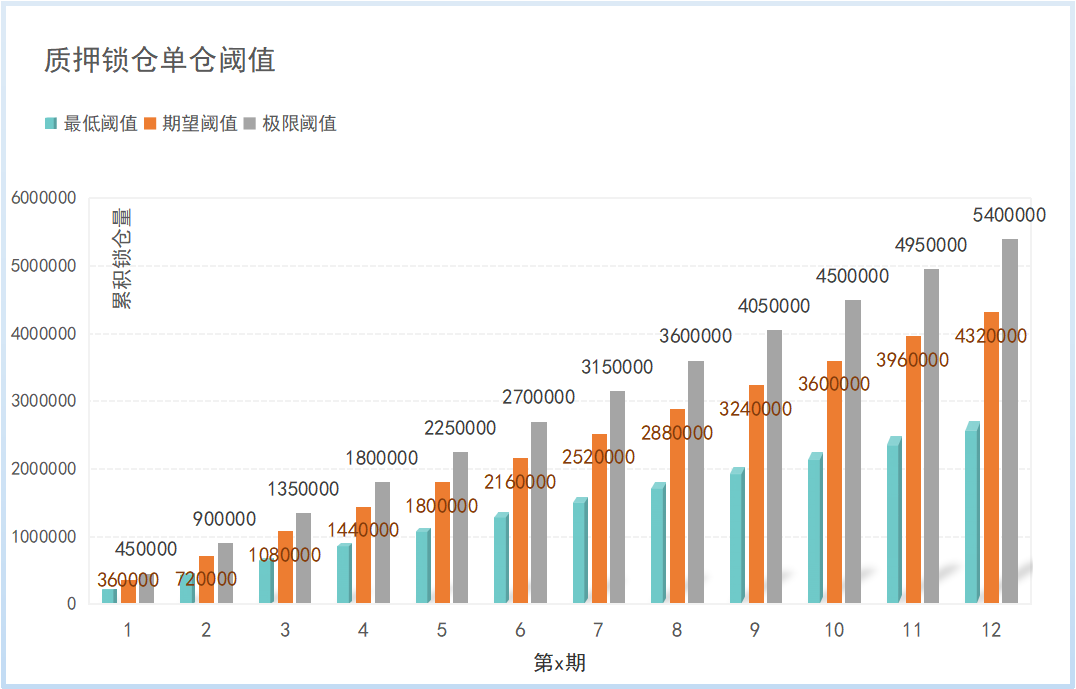
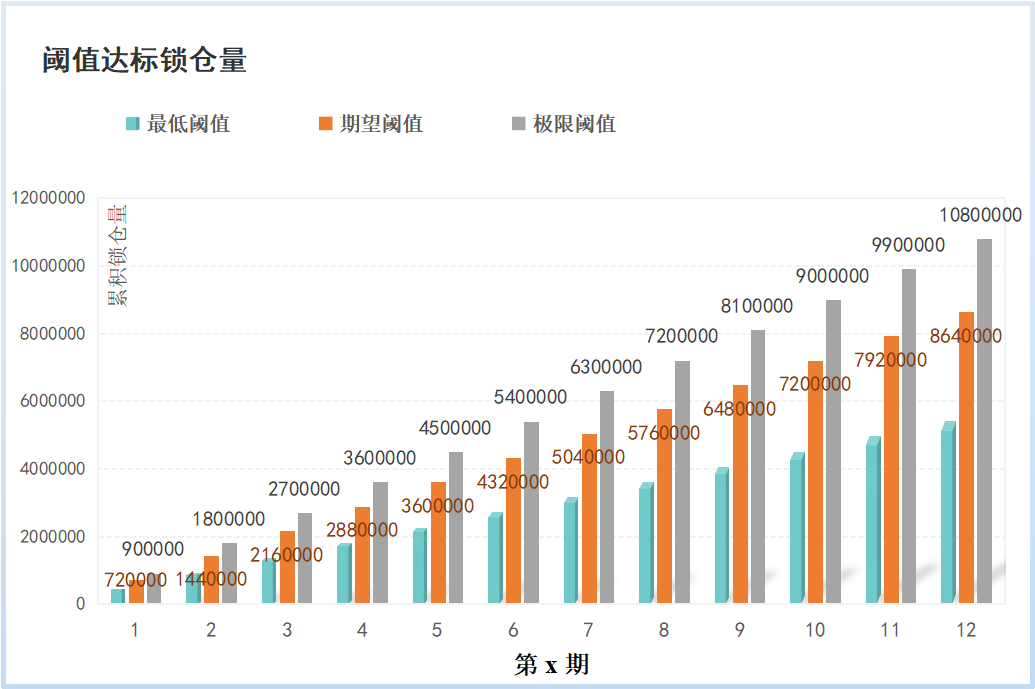
Revision of locking rules

diff --git a/Version_en/Economics_of_Qitmeer_Umayyad_Network_1.0.md b/Version_en/Economics_of_Qitmeer_Umayyad_Network_1.0.md
@@ -1,7 +1,7 @@
 title: Economics of Qitmeer Umayyad Network 1.0      
 Authors：yatingzhou and blocklee and yujie, Qitmeer Economic Team        
-Version: 1.7       
-September 29th, 2021     
+Version: 1.71       
+October 21, 2021     
 
 # Economics of Qitmeer Umayyad Network 1.0
 
@@ -157,7 +157,7 @@ In game theory, rational individuals make choices and behaviors that are often d
 
 Therefore, we give a set of gamification settings for locking positions and their incentives based on the basic theory of non-perfect information non-cooperative dynamic games. We will set up two lockup pools, A and B, and allocate lockup incentives each period according to the lockup of each pool. The lock-up incentive received by users will consist of two parts: the basic incentive and the competitive incentive. By default, pool A is a staking pool for miners, while pool B is a staking pool for regular coin holders. The basic incentive for the current period will be equally distributed to pool A and B, and then proportionally distributed to all the current cumulative lock funds based on the amount and lock time of each.
 
-The allocation of basic incentive for each period will be set at a certain threshold, i.e. the higher the lock volume, the more incentive you will get. Pool A and pool B have the same basic incentive and the same lock threshold, only when the cumulative locking volume reaches the corresponding threshold will you get the corresponding percentage of basic incentive.
+A certain threshold will be set for the basic incentive allocation of each period, i.e., the higher the locking amount, the more incentive will be obtained. And only when the cumulative locking amount reaches the corresponding threshold, the corresponding percentage of basic incentive can be obtained.
 
 Poll A and B will compete for the winner according to the newly added locking volume in each period, and the winner will get the competition incentive in the current period. If the newly added locking volume of pool A is larger than pool B in the current period and the difference is higher than 10,000 meer, pool A will get the competitive incentive as the winner; if the newly added locking volume of pool B is larger than pool A in the current period and the difference is higher than 10,000 meer, pool B will get the competitive incentive as the winner; if the difference is less than 10,000 meer, there is no winner and the competitive incentive in the current period will be allocated to the eco-fund. The competitive incentive received by the wining locking pool will be allocated to the current period's newly added locking funds in proportion to the amount of each locking funds in this pool.
 
@@ -188,26 +188,15 @@ The lock-up incentive is divided into 12 periods, and the lock-up incentives of 
 
 The lock-up period lasts until the 1,080,000th block of the main height, after which there will be no more lock-up rewards.
 
-At the end of each period, the profit of the locking funds for that period will be liquidated and vouchers will be generated to be used as the basis for cashing out at the Genesis of Umayyad 2.0. The basic incentive of the current period will be equally distributed to pool A and B, and then distributed to all current accumulated locking funds in proportion to the amount of each locking funds and the locking time. 
+At the end of each period, the profit of the locking funds for that period will be liquidated and vouchers will be generated to be used as the basis for cashing out at the Genesis of Umayyad 2.0. The basic incentive available for the current period will be equally distributed to pool A and B, and then distributed to all current accumulated locking funds in proportion to the amount of each locking funds and the locking time. 
 
-The threshold setting for each pool is benchmarked against the theoretical output of PoW per period, which is 900,000 meer. There are three levels of threshold setting: minimum threshold, expected threshold and ultimate threshold. The minimum threshold is 25% of the theoretical PoW output for the current period, which corresponds to 50% of the basic incentives for the current period; the expected threshold is 40% of the theoretical PoW output for the current period, which corresponds to 80% of the basic incentives for the current period; the ultimate threshold is 50% of the theoretical PoW output for the current period, which corresponds to the full basic incentives for the current period. If the current cumulative locking volume is less than 25% of the theoretical PoW output, only 38% of the current basic incentives will be available, i.e. no-threshold incentives.
+Considering the reasonableness of the incentive and the assessment of the lock-up level, a certain threshold will be set for the allocation of the basic incentive in each period, i.e. the higher the locking amount, the more incentive will be obtained. Only when the total accumulated locking amount reaches the corresponding threshold, the corresponding level of basic incentive can be obtained. The total amount of basic incentive that can be obtained by the two pools in the current period can be determined based on whether the total accumulated locking amount of the two pools in the current period reaches the corresponding threshold level, and then distributed in half to pool A and B afterwards. The basic incentive that each pool has received for each period will be allocated to all the current accumulated locking funds. For the current period, the portion that cannot be obtained because the threshold level is not reached will be allocated to the Eco Fund.
 
-| |Total incentives per period	|Basic incentives	|Single pool no-threshold incentives	|Minimum threshold	|Single pool basic incentives	|Expected threshold	|Single pool basic incentives	|Ultimate threshold	|Single pool basic incentives|
-|:----:|:----:|:----:|:----:|:----:|:----:|:----:|:----:|:----:|:----:|
-|Issue x |Proportion	|Total amount	|38%	|25%	|50%	|40%	|80%	|50%	|100%|
-|1	|2%	|194400	|36936	|225000	|48600	|360000	|77760	|450000	|97200|
-|2	|3%	|291600	|55404	|450000	|72900	|720000	|116640	|900000	|145800|
-|3	|4%	|388800	|73872	|675000	|97200	|1080000	|155520	|1350000	|194400|
-|4	|5%	|486000	|92340	|900000	|121500	|1440000	|194400	|1800000	|243000
-|5	|6%	|583200	|110808	|1125000	|145800	|1800000	|233280	|2250000	|291600|
-|6	|7%	|680400	|129276	|1350000	|170100	|2160000	|272160	|2700000	|340200|
-|7	|8%	|777600	|147744	|1575000	|194400	|2520000	|311040	|3150000	|388800|
-|8	|9%	|874800	|166212	|1800000	|218700	|2880000	|349920	|3600000	|437400|
-|9	|10%	|972000	|184680	|2025000	|243000	|3240000	|388800	|4050000	|486000|
-|10	|11%	|1069200	|203148	|2250000	|267300	|3600000	|427680	|4500000	|534600|
-|11	|12%	|1166400	|221616	|2475000	|291600	|3960000	|466560	|4950000	|583200|
-|12	|13%	|1263600	|240084	|2700000	|315900	|4320000	|505440	|5400000	|631800|
+The threshold is set with respect to the total theoretical production, which is the sum of the theoretical PoW output and the theoretical linear release. Since the linear release per period maintains a 1:1 correspondence with the PoW output, the total theoretical production per period is 1.8 million meer. The threshold setting per period is benchmarked to the ratio of the total accumulated locking amount to the total accumulated theoretical production, which we can call the staking ratio. The threshold is set in three levels: the minimum threshold, the expected threshold and the ultimate threshold. If the current staking rate is less than 25%, only 38% of the basic incentive can be obtained, that is, no-threshold incentive; if the current staking rate reaches 25% but not 40%, only 50% of the basic incentive of the current period can be obtained, that is, the minimum threshold is 25%; if the current staking rate reaches 40% but not 50%, only 80% of the basic incentive of the current period can be obtained, that is, the expected threshold is 40%; if the current staking rate reaches 50%, the current period can get 100% of the basic incentive, that is, the ultimate threshold is 50%.
 
+![](../image/Umayyad/lock/formen.jpg)
+
+For example, if the total accumulated locking amount for both pools in period 3 is 2.2 million Meer, and the total accumulated theoretical production by period 3 will be 5.4 million Meer, then the staking rate is 40.74%, which has reached the expected threshold but not the ultimate threshold, so the total basic incentive available for this period is 388800 × 80% = 311,040 meer, and each of pool A and B will receive 155,520 meer.
 
 ![](../image/Umayyad/lock/P003en.png)
 
@@ -243,7 +232,7 @@ The **effective locking time weight** of any fund (L<sub>i</sub>,t<sub>i</sub>) 
 
 Note that funds participating in the lock-up prior to period x have an effective locking time weight of 5 in period x. Funds participating in the lock-up in period x have an effective locking time weight of 5 in all subsequent periods.
 
-Assuming that the total basic incentive in period x is C<sub>x,basic</sub>. If a total of n locking funds have accumulated in a single lock-up pool in period x, the basic profit available to any of these funds (L<sub>i</sub>,t<sub>i</sub>) in period x is
+Assuming that the total basic incentive available in period x is C<sub>x,basic</sub>. If a total of n locking funds have accumulated in a single lock-up pool in period x, the basic profit available to any of these funds (L<sub>i</sub>,t<sub>i</sub>) in period x is
 
 ![](../image/Umayyad/lock/formula002.png)
 

diff --git a/README.md b/README.md
@@ -8,7 +8,7 @@ The Economic model research for Qitmeer (Four era of Qitmeer).
   
     - [Economic Model for Test Net Mining (zh)](Version_zh/Economic_Model_of_Qitmeer_Test_Net_zh.md)
     
-    - [Qitmeer Umayyad Network 1.0 经济模型](Version_zh/Qitmeer_Umayyad_Network_1.0_经济模型v1.7.md)
+    - [Qitmeer Umayyad Network 1.0 经济模型](Version_zh/Qitmeer_Umayyad_Network_1.0_经济模型.md)
     
   - [Version for English](./Version_en)
   
